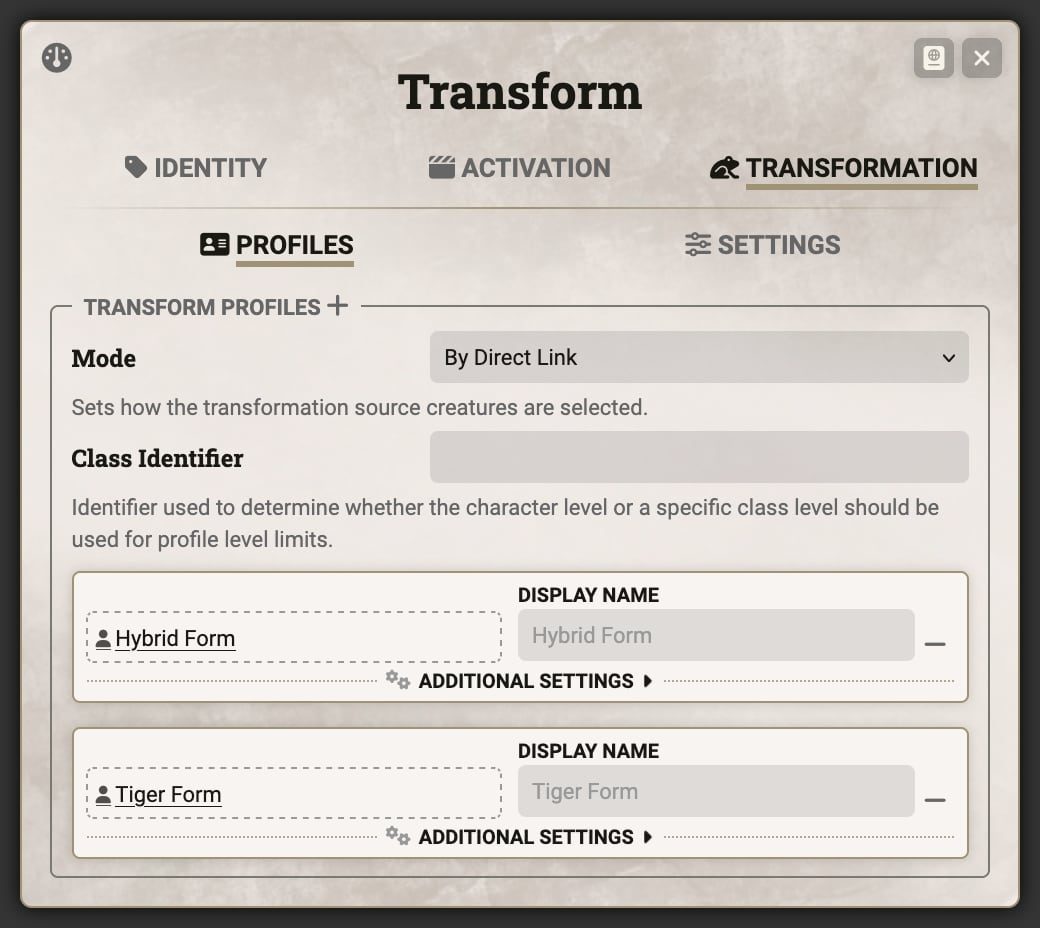
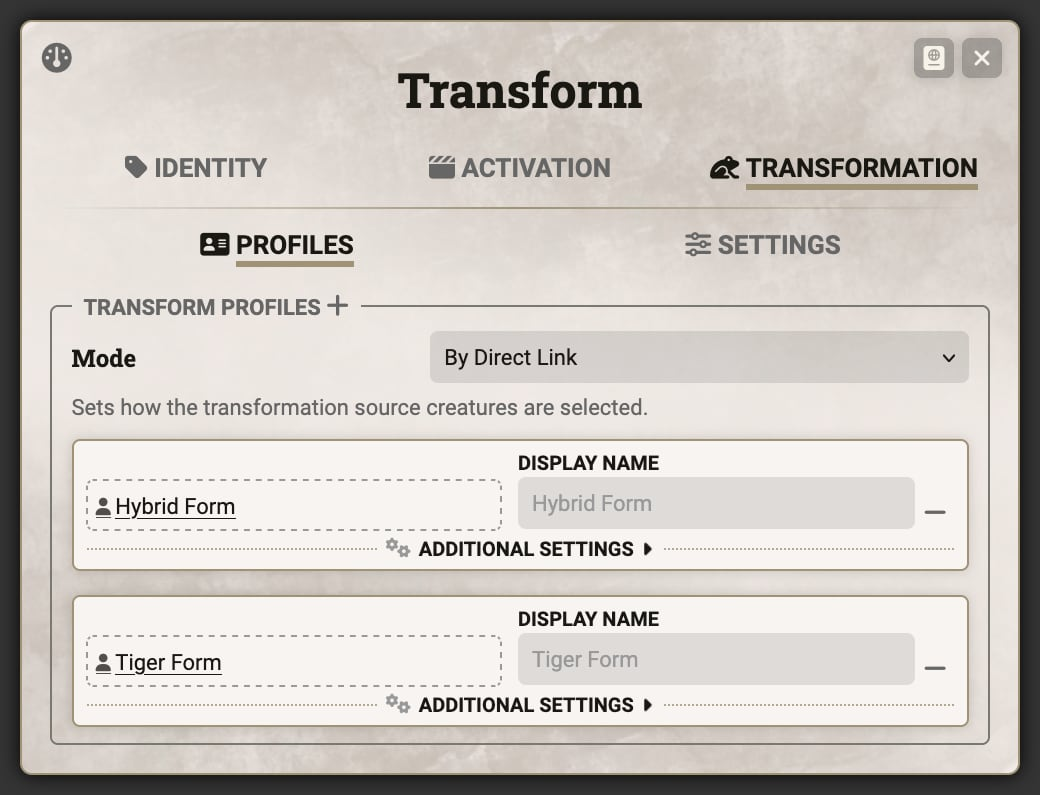
[#6403] Update activity wiki pages based on 5.2 changes (#6450)

diff --git a/wiki/Activity-Type-Summon.md b/wiki/Activity-Type-Summon.md
@@ -1,4 +1,4 @@
-![Up to date as of 5.1.0](https://img.shields.io/static/v1?label=dnd5e&message=5.1.0&color=informational)
+![Up to date as of 5.2.0](https://img.shields.io/static/v1?label=dnd5e&message=5.2.0&color=informational)
 
 The Summon activity is designed to automatically bring summoned creatures into your world. This allows for summoning based on a pre-determined list of creatures or allowing the player to select a creature to summon based on CR and creature type. This activity can modify the summoned creatures before they are brought into the world and includes an interface for players to place them as desired in the scene.
 
@@ -71,7 +71,7 @@ The second example shows the spell "Conjure Element", also from the Player’s H
 
 #### Summoning Level
 
-When summoning occurs the process always has an associated level. For spells, this is based on the level at which the spell is cast, but for Summon activities on other items it varies depending on whether the *Class Identifier* is populated. If provided, then the summoning level will be based on the character’s level in that specific class, otherwise it will use the character’s overall level.
+When summoning occurs the process always has an associated level. For spells, this is based on the level at which the spell is cast, but for Summon activities on other items it varies depending on whether the *Class Identifier* on the "Identity" tab is populated. If provided, then the summoning level will be based on the character’s level in that specific class, otherwise it will use the character’s overall level.
 
 ![Summon Sheet - Profiles Tab, Level Limits](https://raw.githubusercontent.com/foundryvtt/dnd5e/publish-wiki/wiki/images/summoning/summoning-profiles-level-limits.jpg)
 
@@ -81,11 +81,12 @@ This summoning level can be used to restrict certain profiles to only certain le
 
 The next tab defines changes to the creature and its items when summoned. Any fields that accept formulas will be resolved at time of summoning using `@` references from the item performing the summoning (allowing the use of `@item.level` or `@scaling` to adjust details based on the level cast) with details of the summoned creature available using `@summon` (so `@summon.attributes.hd` will give access to the HD size of a summoned NPC).
 
-![Summon Sheet - Changes Tab](https://raw.githubusercontent.com/foundryvtt/dnd5e/publish-wiki/wiki/images/summoning/summoning-changes.jpg)
+![Summon Sheet - Changes Tab - Creature Changes](https://raw.githubusercontent.com/foundryvtt/dnd5e/publish-wiki/wiki/images/summoning/summoning-changes-creature.jpg)
 
 #### Creature Changes
 
 The "Creature Changes" section defines changes to the creature itself:
+- *Match Disposition*: The created token's disposition will match that of the summoner
 - *Match Proficiency*: Changes the summoned creature’s proficiency to match that of the summoner
 - *Bonus Armor Class*: Bonus to the armor class on top of what is specified in the stat block
 - *Bonus Hit Dice*: Number of hit dice to add to those on the summoned creature, based on the hit dice details inferred from the HP formula or creature size
@@ -93,6 +94,8 @@ The "Creature Changes" section defines changes to the creature itself:
 - *Creature Sizes* & *Creature Types*: Change the summoned creature’s size and type when summoning. If more than one option is selected, then the player will be able to choose in the summoning dialog
 
 The example above shows the "Summon Beast" spell from *Tasha’s Cauldron of Everything* which matches the caster’s proficiency, gives a bonus to armor class based on spell level, and an extra 5 hit points for each level cast above the base level.
+
+![Summon Sheet - Changes Tab - Item Changes & Applied Effects](https://raw.githubusercontent.com/foundryvtt/dnd5e/publish-wiki/wiki/images/summoning/summoning-changes-item.jpg)
 
 #### Item Changes
 
@@ -102,3 +105,7 @@ the "Item Changes" section defines changes make to the items (features, attacks,
 - *Bonus Attack Damage*, *Bonus Save Damage*, *Bonus Healing*: Additional damage when using the Attack or Save activities or additional healing when using the Heal activity
 
 In the example above the *Match Attacks* checkbox is checked to ensure the attacks rolls match that of the caster, and the *Bonus Attack Damage* contains `@item.level` giving a bonus of the spell’s level to attack damage rolls. The other fields are left unchanged because the summoned creature doesn’t have any of those.
+
+#### Applied Effects
+
+The applied effects section behaves a bit differently than on other activity types in that these effects will be applied to the actor that is summoned regardless of selected summoning profile. Level limits for the applied effects behave the same as other activities and can be used to restrict which effects are applied.

diff --git a/wiki/Activity-Type-Enchant.md b/wiki/Activity-Type-Enchant.md
@@ -1,4 +1,4 @@
-![Up to date as of 5.1.0](https://img.shields.io/static/v1?label=dnd5e&message=5.1.0&color=informational)
+![Up to date as of 5.2.0](https://img.shields.io/static/v1?label=dnd5e&message=5.2.0&color=informational)
 
 The Enchant activity allows for applying [enchantments](Enchantment.md) to items. These enchantments can modify the stats of an item (such as *Magic Weapon* giving a mundane weapon a +1 magical bonus), carry effects that apply to an actor (such as the *Fire Rune* granting a player double proficiency on tool checks), and carry items that are added to the actor (such as the *Arcane Propulsive Armor* give the player a set of gauntlets that can be used to attack).
 
@@ -30,17 +30,17 @@ The "Enchantments" tab contains a list of potential enchantments that can be app
 
 #### Enchantment Level
 
-When enchantment occurs the process always has an associated level. For spells, this is based on the level at which the spell is cast. For other items this varies depending on whether the *Class Identifier* is populated. If provided, then the summoning level will be based on the character’s level in that specific class, otherwise it will use the character’s overall level.
+When enchantment occurs the process always has an associated level. For spells, this is based on the level at which the spell is cast. For other items this varies depending on whether the *Class Identifier* on the "Identity" tab is populated. If provided, then the summoning level will be based on the character’s level in that specific class, otherwise it will use the character’s overall level.
 
 ![Enchant Sheet - Enchantments Tab, Multiple with Level Limits](https://raw.githubusercontent.com/foundryvtt/dnd5e/publish-wiki/wiki/images/enchantment/enchant-enchantments-multiple.jpg)
 
-This enchantment level can be used to restrict certain profiles to pnly certain levels using the *Level Limits* fields in the "Additional Settings" dropdown. In the above example, the "Magic Weapon" spell from the *Player’s Handbook*, the level limit is set so the "Magic Weapon, +1" enchantment is applied if the spell is cast at 3rd level or lower, and the other two enchantments are available at higher casting levels.
+This enchantment level can be used to restrict certain profiles to only certain levels using the *Level Limits* fields in the "Additional Settings" dropdown. In the above example, the "Magic Weapon" spell from the *Player’s Handbook*, the level limit is set so the "Magic Weapon, +1" enchantment is applied if the spell is cast at 3rd level or lower, and the other two enchantments are available at higher casting levels.
 
-#### Additional Effects & Items
+#### Additional Activities, Effects, & Items
 
-When enchanting profiles can be given additional effects and items that are added alongside the enchantment. Because enchantments can only affect the item to which they are applied, these *Additional Effects* can be used to give the item and Active Effect that changes the actor. The *Additional Items* can be used to specify additional items that are given to the actor when this enchantment is applied. Both the effects and items will be removed from the actor when the enchantment is removed.
+When enchanting, profiles can be given additional activities, effects, and items that are added alongside the enchantment. The *Additional Activities* can be used to automatically add new activities to the item that is enchanted. Because enchantments can only affect the item to which they are applied, these *Additional Effects* can be used to give the item an Active Effect that changes the actor. The *Additional Items* can be used to specify additional items that are given to the actor when this enchantment is applied. All of these activities, effects, and items will be removed from the actor when the enchantment is removed.
 
-![Enchant Sheet - Enchantments Tab, Additional Effects & Items](https://raw.githubusercontent.com/foundryvtt/dnd5e/publish-wiki/wiki/images/enchantment/enchant-enchantments-riders.jpg)
+![Enchant Sheet - Enchantments Tab, Additional Activities, Effects, & Items](https://raw.githubusercontent.com/foundryvtt/dnd5e/publish-wiki/wiki/images/enchantment/enchant-enchantments-riders.jpg)
 
 In the above example, the "Arcane Propulsive Armor" infusion from *Tasha’s Cauldron of Everything*, the profile includes a "Arcane Propulsive Armor" active effect to grant the player a boost to their walking speed and an "Arcane Propulsion Gauntlets" item that gives the player a way to attack using the armor.
 

diff --git a/wiki/Activities.md b/wiki/Activities.md
@@ -1,4 +1,4 @@
-![Up to date as of 5.1.0](https://img.shields.io/static/v1?label=dnd5e&message=5.1.0&color=informational)
+![Up to date as of 5.2.0](https://img.shields.io/static/v1?label=dnd5e&message=5.2.0&color=informational)
 
 The activities system is a new method for adding things that can be done by an item. It replaces the older method of defining a single action for an item with a much more flexible system.
 
@@ -11,7 +11,7 @@ Activities are created on items through the "Activities" tab, using the plus but
 
 ![Activity Creation Dialog](https://raw.githubusercontent.com/foundryvtt/dnd5e/publish-wiki/wiki/images/activities/activity-creation.jpg)
 
-Clicking the plus button brings up the Create Activity dialog with a list of activity types that can be created. After selecting one of these options, optionally entering a name, and clicking "Create New Activity" the sheet for the new activity will be opened.
+Clicking the plus button brings up the Create Activity dialog with a list of activity types that can be created. After selecting one of these options, optionally entering a name, and clicking "Create Activity" the sheet for the new activity will be opened.
 
 ### Activity Types
 
@@ -37,11 +37,18 @@ While parts of the activity sheet change based on the selected activity type, ma
 
 ![Activity Sheet - Identity Tab](https://raw.githubusercontent.com/foundryvtt/dnd5e/publish-wiki/wiki/images/activities/activity-identity.jpg)
 
-The first tab that appears is the "Identity" tab which contains details on how the activity is present and how it behaves:
+The first tab that appears is the "Identity" tab which contains details on how the activity is presented and how it behaves:
 - *Name*: Name for the activity, will default to the name of the activity type if none is provided
 - *Icon*: Icon used when the activity appears in the actor and item sheets
 - *Chat Flavor*: Brief additional text used in the usage chat message
 - *Measured Template Prompt*: If the activity defines an area of effect, should the player be prompted to place the template by default? If unchecked, then the player can still place the template using a button on the chat card
+
+There are also several options that control when the activity is visible and usable:
+- *Require Attunement*: Activity won't be usable on an item that supports attunement and isn't attuned.
+- *Require Magic*: Activity won't be usable if magic isn't available, including in an anti-magic field or on an item that requires attunement and isn't attuned.
+- *Require Identification*: Activity won't be usable or visible if item isn't identified.
+- *Level Limit*: Range of levels at which the activity is visible.
+- *Class Identifier*: Identifier of a specific class that will drive the level restriction. If provided, then a matching class's level will be used for the limit, otherwise it will use the overall character level. This won't be visible on spells which are always limited based on the spell level.
 
 ### Activation
 
@@ -76,3 +83,5 @@ The "Range", "Targets", and "Area" sections contain details on where and who the
 ![Activity Sheet - Effect Tab](https://raw.githubusercontent.com/foundryvtt/dnd5e/publish-wiki/wiki/images/activities/activity-effect.jpg)
 
 The final tab will vary the most between different activity types. Most activity types contain an "Applied Effects" list which specifies what Active Effects present on the item will be available to apply to targets through the chat card. The dropdown allows for selecting existing effects on the item, or the plus button can be used to create a new Active Effect.
+
+Inside the "Additional Settings" dropdown for each effect is a set of level limits. These allow restricting what level the effect will be offered for application and follow the same rules as the level limits on the identity tab.

diff --git a/wiki/Activity-Type-Transform.md b/wiki/Activity-Type-Transform.md
@@ -1,4 +1,4 @@
-![Up to date as of 5.1.0](https://img.shields.io/static/v1?label=dnd5e&message=5.1.0&color=informational)
+![Up to date as of 5.2.0](https://img.shields.io/static/v1?label=dnd5e&message=5.2.0&color=informational)
 
 The Transform activity is designed to change one or more actors using the stats of another. It is based on the same transformation system that has been long supported by dragging one actor onto another, but with the activity the transformation settings can be pre-configured and a compendium browser can be shown to make it easy to select which creature to transform into.
 
@@ -55,7 +55,7 @@ In the example above, a "Shape-Shift" feature on a Weretiger, includes two profi
 
 #### Transform Level
 
-When transformation occurs the process always has an associated level. For spells, this is based on the level at which the spell is cast, but for Transform activities on other items it varies depending on whether the *Class Identifier* is populated. If provided, then the transform level will be based on the character’s level in that specific class, otherwise it will use the character’s overall level.
+When transformation occurs the process always has an associated level. For spells, this is based on the level at which the spell is cast, but for Transform activities on other items it varies depending on whether the *Class Identifier* on the "Identity" tab is populated. If provided, then the transform level will be based on the character’s level in that specific class, otherwise it will use the character’s overall level.
 
 This transform level can be used to restrict certain profiles to only certain levels using the *Level Limits* fields in the "Additional Settings" dropdown.
 

diff --git a/wiki/Activity-Type-Cast.md b/wiki/Activity-Type-Cast.md
@@ -1,4 +1,4 @@
-![Up to date as of 5.1.0](https://img.shields.io/static/v1?label=dnd5e&message=5.1.0&color=informational)
+![Up to date as of 5.2.0](https://img.shields.io/static/v1?label=dnd5e&message=5.2.0&color=informational)
 
 The Cast activity allows for casting a spell through an item.
 
@@ -7,7 +7,7 @@ The Cast activity allows for casting a spell through an item.
 
 When items that contain Cast activities are added to a character the spells they offer appear in a new section of the spell list called Item Spells. If an item requires attunement, then these spells will only be listed if the item is attuned.
 
-![Cast Sheet - Identity Tab](https://raw.githubusercontent.com/foundryvtt/dnd5e/publish-wiki/wiki/images/activities/cast-spellbook.jpg)
+![Cast Sheet - Additional Spells in Spells Tab](https://raw.githubusercontent.com/foundryvtt/dnd5e/publish-wiki/wiki/images/activities/cast-spellbook.jpg)
 
 
 ## Casting Spells

diff --git a/wiki/Activity-Type-Utility.md b/wiki/Activity-Type-Utility.md
@@ -1,4 +1,4 @@
-![Up to date as of 5.1.0](https://img.shields.io/static/v1?label=dnd5e&message=5.1.0&color=informational)
+![Up to date as of 5.2.0](https://img.shields.io/static/v1?label=dnd5e&message=5.2.0&color=informational)
 
 The Use activity allows for rolling an arbitrary formula, adding effects, or simply indicating something occurs without specific functionality. It acts as a catch-all activity for any case where a more specific activity doesn’t make sense.
 

diff --git a/wiki/Activity-Type-Forward.md b/wiki/Activity-Type-Forward.md
@@ -1,4 +1,4 @@
-![Up to date as of 5.1.0](https://img.shields.io/static/v1?label=dnd5e&message=5.1.0&color=informational)
+![Up to date as of 5.2.0](https://img.shields.io/static/v1?label=dnd5e&message=5.2.0&color=informational)
 
 The Forward activity allows for triggering another activity on the same item with different consumption and scaling.
 

diff --git a/wiki/Activity-Type-Check.md b/wiki/Activity-Type-Check.md
@@ -1,4 +1,4 @@
-![Up to date as of 5.1.0](https://img.shields.io/static/v1?label=dnd5e&message=5.1.0&color=informational)
+![Up to date as of 5.2.0](https://img.shields.io/static/v1?label=dnd5e&message=5.2.0&color=informational)
 
 The Check activity allows for calling for ability checks including those that use skill or tool proficiency.
 

diff --git a/wiki/Activity-Type-Save.md b/wiki/Activity-Type-Save.md
@@ -1,4 +1,4 @@
-![Up to date as of 5.1.0](https://img.shields.io/static/v1?label=dnd5e&message=5.1.0&color=informational)
+![Up to date as of 5.2.0](https://img.shields.io/static/v1?label=dnd5e&message=5.2.0&color=informational)
 
 The Save activity allows for calling for saving throws and rolling damage.
 

diff --git a/wiki/Activity-Type-Attack.md b/wiki/Activity-Type-Attack.md
@@ -1,4 +1,4 @@
-![Up to date as of 5.1.0](https://img.shields.io/static/v1?label=dnd5e&message=5.1.0&color=informational)
+![Up to date as of 5.2.0](https://img.shields.io/static/v1?label=dnd5e&message=5.2.0&color=informational)
 
 The Attack activity allows for making attacks and rolling damage.
 

diff --git a/wiki/Activity-Type-Damage.md b/wiki/Activity-Type-Damage.md
@@ -1,4 +1,4 @@
-![Up to date as of 5.1.0](https://img.shields.io/static/v1?label=dnd5e&message=5.1.0&color=informational)
+![Up to date as of 5.2.0](https://img.shields.io/static/v1?label=dnd5e&message=5.2.0&color=informational)
 
 The Damage activity allows for rolling damage.
 

diff --git a/wiki/Activity-Type-Heal.md b/wiki/Activity-Type-Heal.md
@@ -1,4 +1,4 @@
-![Up to date as of 5.1.0](https://img.shields.io/static/v1?label=dnd5e&message=5.1.0&color=informational)
+![Up to date as of 5.2.0](https://img.shields.io/static/v1?label=dnd5e&message=5.2.0&color=informational)
 
 The Heal activity allows for rolling healing.
 
